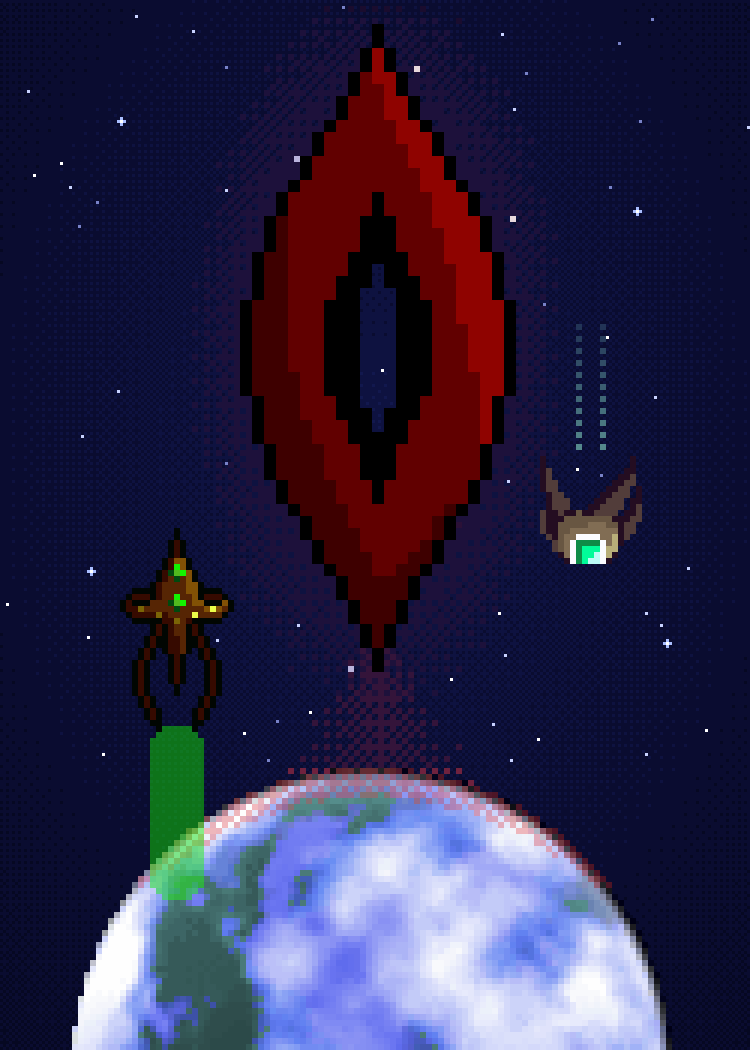
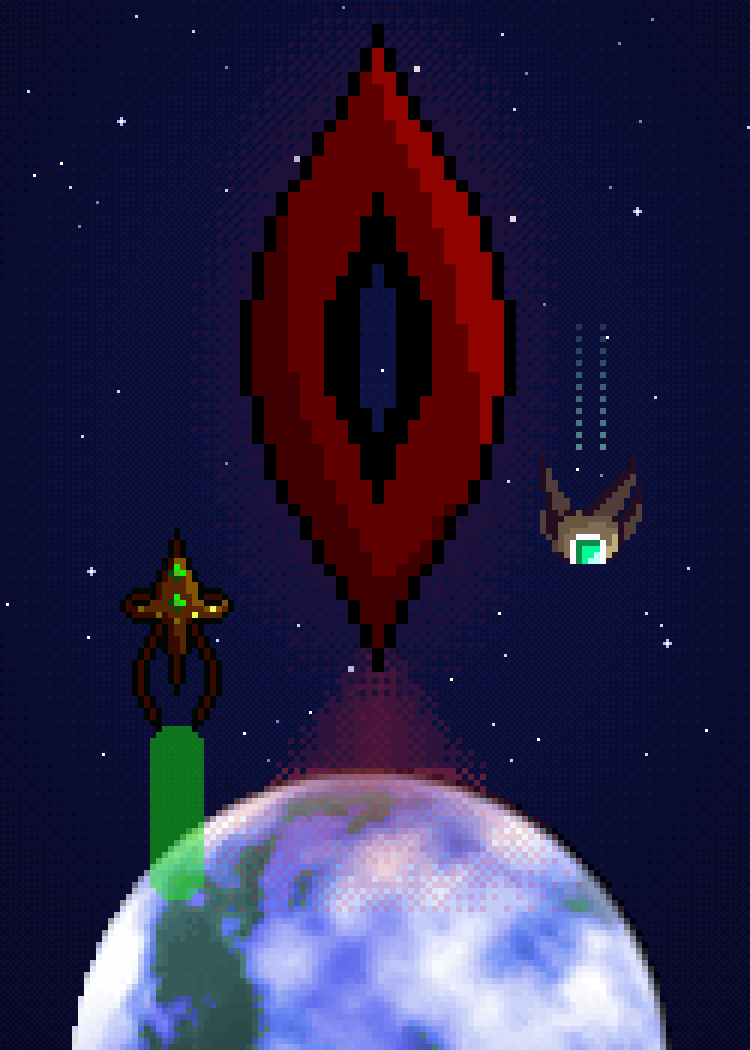
Runde 6: Gegner-Sleeves Zwischenstand
Claude-Session: https://claude.ai/code/session_01TEnvTzH2xD44R6Unjv7vDo

Changed region(s): [[0.2147, 0.6095, 0.828, 0.8838], [0.184, 0.8229, 0.2147, 0.8533]]

diff --git a/data/sleeve-proposals/runde6/generator/s36_blackport_nightfall.py b/data/sleeve-proposals/runde6/generator/s36_blackport_nightfall.py
@@ -33,7 +33,7 @@ from gkit36_40 import *  # noqa
 rnd = random.Random(36)
 W2, H2 = 125, 175
 CX0, CY0 = 222, 150                   # Ausschnitt aus Ebene 103 (Torhaus)
-SHIFT = 30                            # Torhaus im Raster um 30 Zeilen nach unten → Himmel darüber
+SHIFT = 45                            # Torhaus im Raster um 45 Zeilen nach unten → Himmel darüber
 
 # ------------------------------------------------------------------ Torhaus vorbereiten (Figuren entfernen)
 full = layer('Motive', 103).copy()
@@ -46,12 +46,11 @@ for y, x in zip(*np.nonzero(mask)):
     for dx in (16, -16, 32, -32):
         if not mask[y, x + dx]: full[y, x] = full[y, x + dx]; break
 # Banner über dem Tor → an den linken Turm; an seine alte Stelle Mauer aus 16 px Entfernung
-banner = full[219:238, 280:294].copy()
+BY0, BY1, BX0, BX1 = 220, 240, 277, 294
+banner = full[BY0:BY1, BX0:BX1].copy()
 brgb = banner[..., :3].astype(int)
-banner[..., 3] = np.where(((brgb[..., 0] > brgb[..., 1] + 25) | (brgb[..., 0] > 150)), 255, 0).astype(np.uint8)
-for y in range(219, 238):
-    for x in range(280, 294):
-        if banner[y - 219, x - 280, 3]: full[y, x] = full[y, x - 16]
+banner[..., 3] = np.where(brgb.max(-1) - brgb.min(-1) > 18, 255, 0).astype(np.uint8)      # Wand ist grau
+bb_ = bbox(banner); banner = banner[bb_[1]:bb_[3], bb_[0]:bb_[2]]
 gate = full[CY0:CY0 + H2 - SHIFT, CX0:CX0 + W2].copy()
 gate[..., 3] = 255
 
@@ -96,19 +95,6 @@ for _ in range(34):
     x, y = rnd.randrange(3, W2 - 3), rnd.randrange(2, HOR - 12)
     if math.hypot(x - MX, y - MY) > MR + 10: bg.a[y, x, :3] = (200, 206, 230) if rnd.random() < 0.6 else (130, 140, 190)
 
-# Tentakel der Spawn Mother hinter dem linken Turm (2×, gleiche Ebene wie das Torhaus)
-T = layer('MotiveIndia', 399)[312:336, 328:365].copy()
-sprite('o36_tentacle', 'MotiveIndia', [399], box=(328, 312, 365, 336))
-T = flip(T)                                                   # Spitze nach links, Wurzel rechts hinter dem Turm
-TX, TY = 2, SHIFT + (178 - CY0) - 22
-for y in range(T.shape[0]):
-    for x in range(T.shape[1]):
-        a = T[y, x, 3] / 255.0
-        if a <= 0: continue
-        c = np.array(T[y, x, :3], float) * np.array((0.78, 0.74, 0.92))
-        q = dith(min(1.0, a * 1.15), TX + x, TY + y, 4)
-        if q > 0: bg.blend(TX + x, TY + y, tuple(c), q)
-
 # Torhaus nachts: dunkel, kühl, Mondlicht von rechts oben hellt rechte Turmhälften leicht auf
 g = gate.astype(float)
 for y in range(g.shape[0]):
@@ -142,11 +128,11 @@ for x in range(W2):
 
 # Banner am linken Turm, Schwert am rechten Turm
 b_ = banner.copy(); b_[..., :3] = np.clip(b_[..., :3].astype(float) * np.array((0.75, 0.7, 0.9)), 0, 255)
-bg.paste(b_, (TOWERS[0][0] + TOWERS[0][1]) // 2 - b_.shape[1] // 2, SHIFT + (186 - CY0))
-sw = sprite('o36_sword', 'Motive', [911])
+bg.paste(b_, (TOWERS[0][0] + TOWERS[0][1]) // 2 - b_.shape[1] // 2, SHIFT + (188 - CY0))
+sw = rot90(sprite('o36_sword', 'Motive', [911]), 1)          # senkrecht, Spitze nach unten
 sw2 = sw.copy(); sw2[..., :3] = np.clip(sw2[..., :3].astype(float) * np.array((0.85, 0.85, 0.98)), 0, 255)
 SWX = (TOWERS[1][0] + TOWERS[1][1]) // 2 - sw.shape[1] // 2
-bg.paste(sw2, SWX, SHIFT + (192 - CY0))
+bg.paste(sw2, SWX, SHIFT + (184 - CY0))
 
 # ================================================================== Vordergrund 6× (42×59)
 W6, H6 = 42, 59
@@ -162,4 +148,4 @@ fg.paste(art, AX, AY)
 
 cv = compose_planes([bg, fg])
 save(cv, '36_blackport_nightfall.png')
-print('ok', art.shape, 'gate bottom row (canvas):', 2 * (SHIFT + 287 - CY0), 'feet:', 6 * (FEET + 1))
+print('ok', art.shape, sw.shape, banner.shape)

diff --git a/data/sleeve-proposals/runde6/generator/s16_rift_over_earth.py b/data/sleeve-proposals/runde6/generator/s16_rift_over_earth.py
@@ -69,16 +69,18 @@ for y in range(TIP - 6, EY - 44):
     for x in range(int(ECX - half), int(ECX + half) + 1):
         if 0 <= x < 125 and p2[y, x, 3] == 0:
             f = 1 - abs(x + 0.5 - ECX) / half
-            if f * 0.8 > bayer(x, y) + 0.1:
+            lv = int(f * 2.6 + bayer(x, y))
+            if lv:
                 c = tuple(int(v) for v in cv.a[y * 2, x * 2])
-                p2[y, x] = list(mix(c, (150, 24, 44), 0.28)) + [255]
+                p2[y, x] = list(mix(c, (160, 26, 48), (0, 0.22, 0.36, 0.48)[min(3, lv)])) + [255]
 # Erde, oberer Rand vom Blick rötlich angestrahlt
 put(p2, earth, EX - 50, EY - 50)
-for y in range(EY - 50, EY - 30):
-    for x in range(EX - 40, EX + 41):
-        if 0 <= y < 175 and p2[y, x, 3] and math.hypot(x + 0.5 - EX, y + 0.5 - EY) > 50 - 2 - (EY - 30 - y) * 0.2:
-            if bayer(x, y) < 0.6:
-                p2[y, x, :3] = mix(tuple(int(v) for v in p2[y, x, :3]), (220, 60, 70), 0.35)
+for y in range(EY - 50, EY - 24):
+    for x in range(EX - 36, EX + 37):
+        if 0 <= y < 175 and p2[y, x, 3]:
+            g = (1 - (y - (EY - 50)) / 26) * (1 - abs(x - EX) / 37)      # Lichtfleck oben mittig, auslaufend
+            lv = int(g * 3 + bayer(x, y))
+            if lv: p2[y, x, :3] = mix(tuple(int(v) for v in p2[y, x, :3]), (210, 50, 70), (0, 0.18, 0.3, 0.42)[min(3, lv)])
 # Life-Searcher links, sinkt mit Suchstrahl auf die Erde
 SX, SY = 20, 88
 put(p2, search, SX, SY)

diff --git a/data/sleeve-proposals/runde6/generator/s20_stormward_drift.py b/data/sleeve-proposals/runde6/generator/s20_stormward_drift.py
@@ -77,11 +77,14 @@ def bolt(dst, x, y, length, rnd, fork=True):
     (weiß), seitlich 1 px bläulicher Schein; optional ein kurzer Seitenast."""
     pts = [(x, y)]; d = rnd.choice((-1, 1)); yy = y; xx = x
     while yy < y + length:
-        n = rnd.randint(3, 6)
+        n = rnd.choice((2, 3, 5, 7, 9))                    # unregelmäßige Segmente
+        steep = rnd.random() < 0.5                          # steil (x nur jede 2. Zeile) oder flach
         for i in range(n):
-            yy += 1; xx += d if i < n - 1 or rnd.random() < 0.5 else 0
+            yy += 1
+            if not steep or i % 2 == 0:
+                xx += d
             pts.append((xx, yy))
-        d = -d
+        d = -d if rnd.random() < 0.75 else d
     br = []
     if fork:
         k = len(pts) // 2; fx, fy = pts[k]; dd = rnd.choice((-1, 1))
